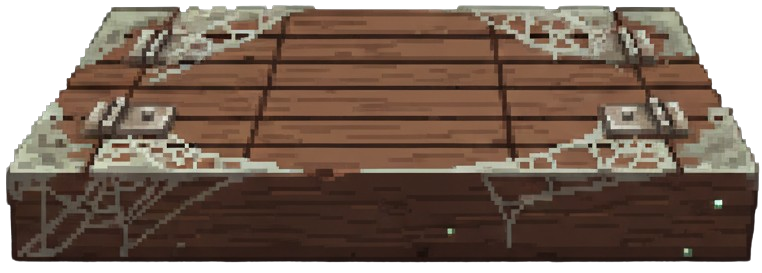
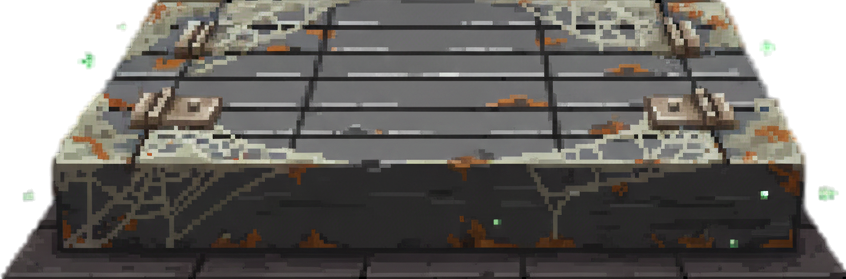
Ajusto las escalas del personaje y cambio el sprite de la puerta por uno de mejor contraste

diff --git a/Wiskers/src/entities/Player.js b/Wiskers/src/entities/Player.js
@@ -15,7 +15,7 @@ export default class Player extends Phaser.Physics.Arcade.Sprite {
         this.isCrouching = false;
 
         // === Escalado base ===
-        const BASE_SCALE = 0.2;
+        const BASE_SCALE = 0.1;
 
         this.setTexture('gatoIdle');
         this.setScale(BASE_SCALE);
